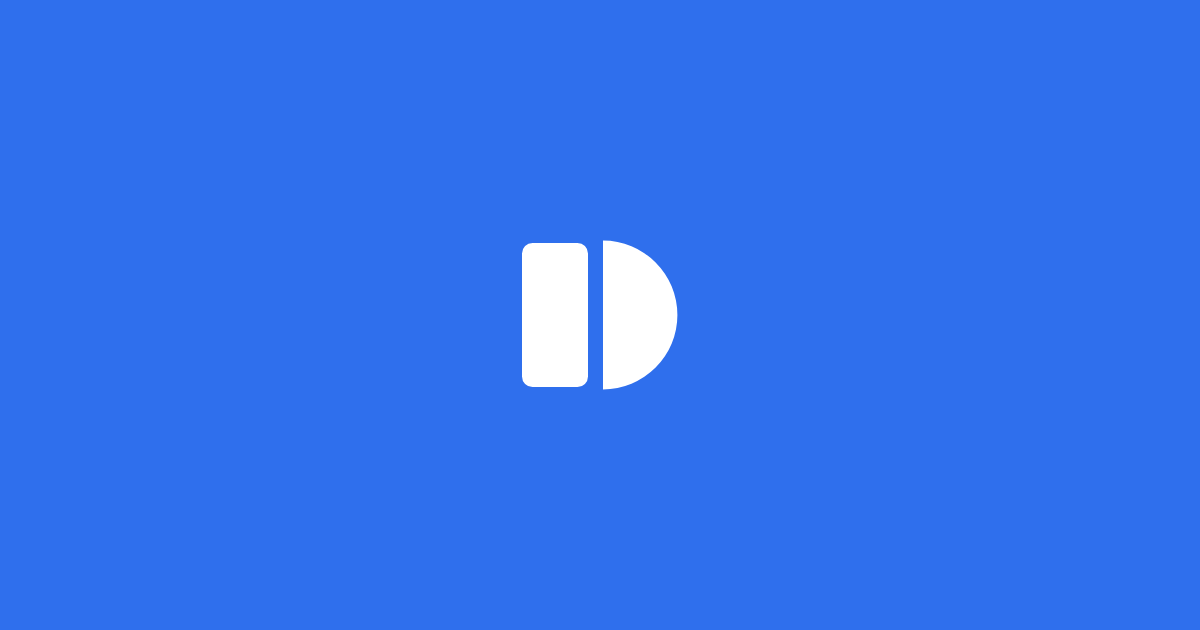
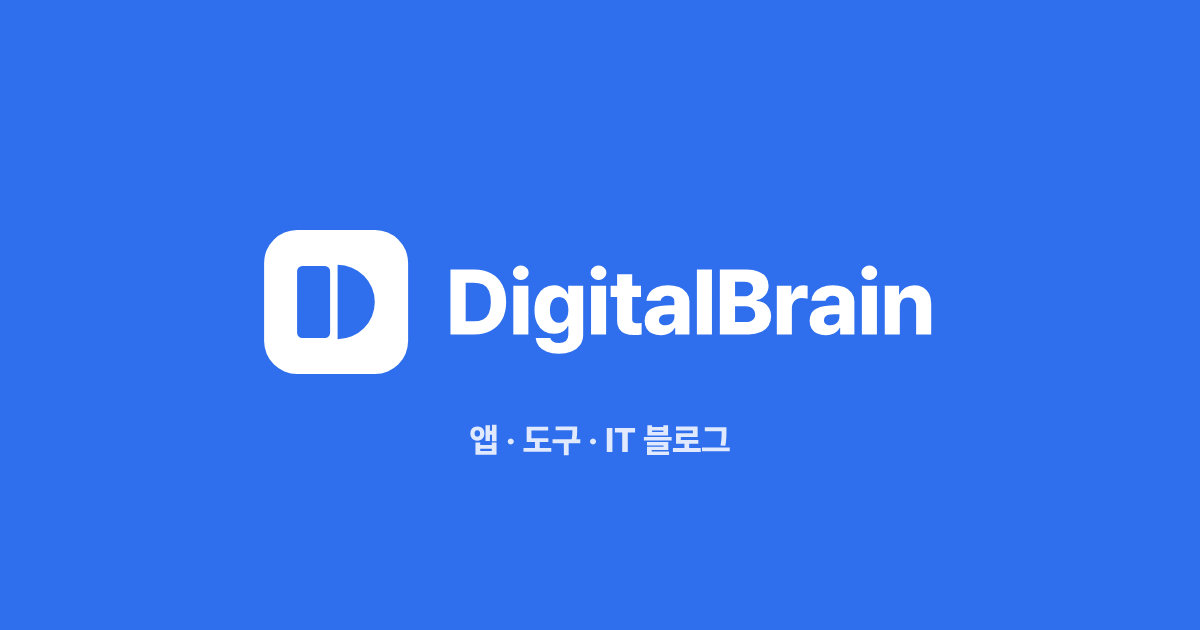
Brand: DigitalBrain wordmark, lockups and a share image with the name
The name stays DigitalBrain. brand/wordmark.py outlines it in Pretendard
ExtraBold (SIL OFL) so the logo looks the same where the font is missing,
and builds the mark + name lockups for light and dark backgrounds and
the 1200x630 share image (mark, name, one-line description).

Claude-Session: https://claude.ai/code/session_01Hxmxdanjb42vteTsPJVtFn

Changed region(s): [[0.37, 0.3619, 0.8017, 0.6333], [0.2158, 0.3619, 0.3392, 0.6032], [0.37, 0.6635, 0.6167, 0.7238]]

diff --git a/brand/wordmark.py b/brand/wordmark.py
@@ -1,0 +1,107 @@
+#!/usr/bin/env python3
+"""글자 로고(워드마크)와 마크+글자 조합, 공유 미리보기 원본 SVG 를 만든다.
+
+글자는 Pretendard(ExtraBold 800)의 윤곽선을 그대로 path 로 옮긴다. 그래서 글꼴이 없는 곳
+(메일, 문서, 이미지 편집기)에서도 똑같이 보인다. Pretendard 는 SIL OFL 1.1 이라 윤곽선을 로고에 써도 된다.
+
+  pip install fonttools brotli
+  python3 brand/wordmark.py <PretendardVariable dynamic-subset 폴더와 pretendard.css 가 있는 폴더>
+
+결과: brand/src/ 의 dibrain-wordmark.svg, dibrain-lockup.svg, dibrain-lockup-dark.svg, og-default.svg
+"""
+import pathlib, re, sys
+from fontTools.ttLib import TTFont
+from fontTools.varLib import instancer
+from fontTools.pens.svgPathPen import SVGPathPen
+from fontTools.pens.transformPen import TransformPen
+
+HERE = pathlib.Path(__file__).resolve().parent
+SRC = HERE / "src"
+FONT_DIR = pathlib.Path(sys.argv[1])
+WEIGHT = 800
+MARK = re.search(r'<path fill="#fff" d="([^"]+)"', (SRC / "dibrain.svg").read_text()).group(1)
+BLUE, INK = "#2f6fed", "#16181d"
+
+# pretendard.css 의 unicode-range 로 글자마다 어느 subset 파일에 있는지 찾는다
+css = (FONT_DIR / "pretendard.css").read_text()
+ranges = []
+for block in re.findall(r"@font-face\s*{(.*?)}", css, re.S):
+    url = re.search(r"url\(['\"]?([^'\")]+\.woff2)", block).group(1)
+    for a, b in re.findall(r"U\+([0-9A-Fa-f]+)(?:-([0-9A-Fa-f]+))?", re.search(r"unicode-range:([^;]+)", block).group(1)):
+        ranges.append((int(a, 16), int(b or a, 16), FONT_DIR / url))
+_fonts = {}
+
+
+def font_for(ch):
+    cp = ord(ch)
+    for a, b, path in ranges:
+        if a <= cp <= b:
+            if path not in _fonts:
+                f = TTFont(path)
+                if "fvar" in f:
+                    f = instancer.instantiateVariableFont(f, {"wght": WEIGHT})
+                _fonts[path] = f
+            return _fonts[path]
+    raise SystemExit(f"글자 없음: {ch!r}")
+
+
+def outline(text, size, tracking):
+    """text 를 size(px) 로 그린 path d 와 전체 폭, 대문자 높이를 돌려준다. 원점 = 첫 글자 기준선 왼쪽."""
+    x, parts, cap = 0.0, [], None
+    for ch in text:
+        f = font_for(ch)
+        upm = f["head"].unitsPerEm
+        s = size / upm
+        if cap is None:
+            cap = f["OS/2"].sCapHeight * s
+        gname = f.getBestCmap()[ord(ch)]
+        if ch != " ":
+            pen = SVGPathPen(f.getGlyphSet())
+            f.getGlyphSet()[gname].draw(TransformPen(pen, (s, 0, 0, -s, x, 0)))
+            parts.append(pen.getCommands())
+        x += f["hmtx"][gname][0] * s + tracking * size
+    return " ".join(parts), x - tracking * size, cap
+
+
+def r(v):
+    return round(v, 2)
+
+
+# 1) 글자 로고만
+word_d, word_w, cap = outline("DigitalBrain", 100, -0.02)
+pad = 4
+(SRC / "dibrain-wordmark.svg").write_text(
+    f'<svg xmlns="http://www.w3.org/2000/svg" viewBox="{-pad} {r(-cap - pad)} {r(word_w + 2 * pad)} {r(cap + 2 * pad + 22)}">\n'
+    f'<path fill="{INK}" d="{word_d}"/>\n</svg>\n')
+
+
+def lockup(text_fill, mark_bg, glyph):
+    """마크(높이 96) + 글자. 글자 크기는 대문자 높이가 마크 높이의 약 45% 가 되게, 세로 가운데 맞춤."""
+    size = 96 * 0.45 / (cap / 100)
+    d, w, c = outline("DigitalBrain", size, -0.02)
+    gap = 96 * 0.26
+    base = 48 + c / 2
+    total = 96 + gap + w
+    body = (f'<rect width="96" height="96" rx="22" fill="{mark_bg}"/><path fill="{glyph}" d="{MARK}"/>'
+            f'<g transform="translate({r(96 + gap)} {r(base)})"><path fill="{text_fill}" d="{d}"/></g>')
+    return total, body
+
+
+for name, (tf, mb, gl) in {"dibrain-lockup.svg": (INK, BLUE, "#fff"), "dibrain-lockup-dark.svg": ("#fff", BLUE, "#fff")}.items():
+    total, body = lockup(tf, mb, gl)
+    (SRC / name).write_text(f'<svg xmlns="http://www.w3.org/2000/svg" viewBox="0 0 {r(total)} 96">\n{body}\n</svg>\n')
+
+# 2) 공유 미리보기 1200x630: 파랑 바탕, 흰 마크(파랑 글리프) + 흰 글자, 아래 한 줄 소개
+total, _ = lockup("#fff", "#fff", BLUE)
+scale = 1.5
+lw = total * scale
+x0, y0 = (1200 - lw) / 2, 230
+_, body = lockup("#fff", "#fff", BLUE)
+tag_d, tag_w, _ = outline("앱 · 도구 · IT 블로그", 34, -0.01)
+(SRC / "og-default.svg").write_text(
+    '<svg xmlns="http://www.w3.org/2000/svg" viewBox="0 0 1200 630" width="1200" height="630">\n'
+    f'<rect width="1200" height="630" fill="{BLUE}"/>\n'
+    f'<g transform="translate({r(x0)} {r(y0)}) scale({scale})">{body}</g>\n'
+    f'<g transform="translate({r((1200 - tag_w) / 2)} {r(y0 + 96 * scale + 78)})"><path fill="#fff" fill-opacity="0.85" d="{tag_d}"/></g>\n'
+    '</svg>\n')
+print("wordmark: cap", r(cap), "width", r(word_w), "-> brand/src")

diff --git a/brand/README.md b/brand/README.md
@@ -10,7 +10,10 @@
 | `src/dibrain.svg` | 브랜드 마크. 파랑 둥근 사각형 + 흰 "네모와 반원" D |
 | `src/dibrain-mono.svg` | 한 색 마크(Safari 고정 탭, 도장, 흑백 인쇄) |
 | `src/<앱>.svg`, `src/<앱>-maskable.svg` | 앱 아이콘. maskable 은 모서리 없이 꽉 채운 판(안드로이드·iOS 홈 화면용) |
-| `src/og-default.svg` | 링크 공유 미리보기 1200×630 |
+| `src/dibrain-wordmark.svg` | 글자 로고 "DigitalBrain"(Pretendard ExtraBold 윤곽선) |
+| `src/dibrain-lockup.svg`, `src/dibrain-lockup-dark.svg` | 마크 + 글자 가로 조합(밝은 바탕 / 어두운 바탕) |
+| `src/og-default.svg` | 링크 공유 미리보기 1200×630(마크 + 글자 + 한 줄 소개) |
+| `wordmark.py` | 위 세 가지를 Pretendard 윤곽선으로 다시 만든다(`pip install fonttools brotli`) |
 | `tokens.css` | 공통 색·글꼴·모서리·상단 바. 각 저장소에 그대로 복사 |
 | `build.cjs` | 위 SVG 에서 PNG(16~512)·favicon.ico·maskable·apple-touch-icon 생성 → `dist/` |
 
@@ -52,7 +55,8 @@ NODE_PATH=<playwright 가 있는 node_modules> node brand/build.cjs
 
 Pretendard 하나(SIL Open Font License 1.1, 상업용 사용 가능). 오프라인 앱은 글꼴 파일을 저장소 안에 두고, 온라인 페이지는 jsDelivr 를 쓴다.
 
-## 아직 정하지 않은 것
+## 이름
 
-- **이름(글자 로고)**: 상표 검색 결과를 보고 확정한다. 확정 전까지 글자 로고 이미지는 만들지 않고, 화면에는 텍스트로만 쓴다.
-- **상표 출원**: 마크와 이름 모두 출원 전이다.
+- 이름은 **DigitalBrain** (한글 표기 디지털브레인). 글자 로고는 글꼴 없이도 같게 보이도록 윤곽선으로 저장했다.
+- 상표: 2026-09-26 KIPRIS 국내 검색에서 "디지털브레인" 상표 등록은 없었다(같은 이름 회사의 다른 상표 1건, 36류, 소멸).
+  영문 "DIGITAL BRAIN" 검색과 출원은 아직 하지 않았다. 출원한다면 글자만보다 마크 + 글자 조합이 식별력 면에서 유리하다.
